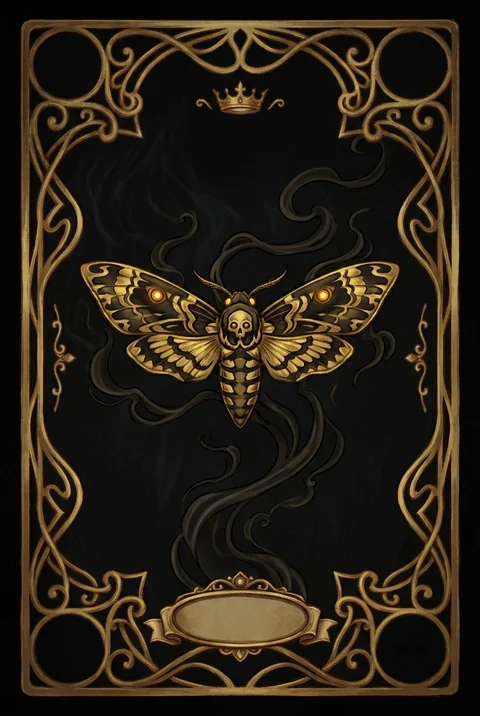
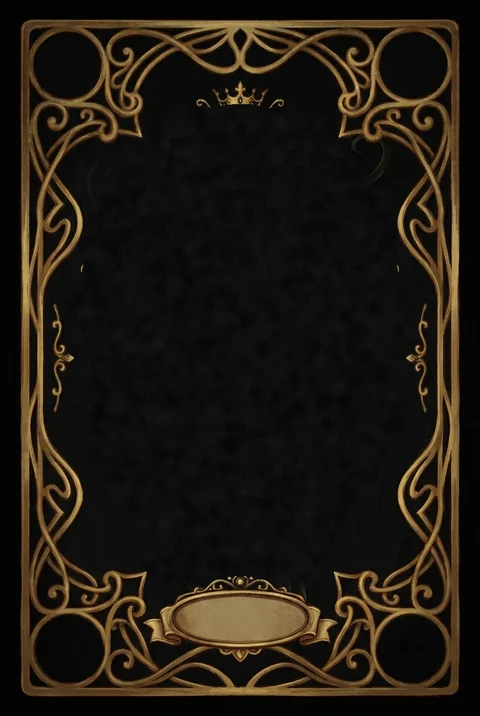
원작 규칙서 대조: 기본판 2인(10장 빼기 · 넘기기 없음 · 5장 패배), 검은 카드는 빈 카드, 벌칙 더미에서 나온 특수 카드도 값을 치른다

diff --git a/game.js b/game.js
@@ -243,7 +243,8 @@ function startGame(room) {
   room.loseAt = R.loseAt(ed, n);
   room.fx = null;
   const order = shuffle(room.players.slice());
-  const { hands, penalty } = R.deal(shuffle(R.makeDeck(ed)), n, ed);
+  const { hands, penalty, removed } = R.deal(shuffle(R.makeDeck(ed)), n, ed);
+  room.removed = removed.length;          // 기본판 2인 — 아무도 모르는 10장
   order.forEach((p, i) => { p.hand = hands[i]; p.row = R.emptyRow(ed); p.crowns = {}; });
   room.penalty = penalty;                 // 맨 끝 장이 펼쳐진 윗장
   // 처음 내미는 사람 — 로얄판은 한 장 더 받은 첫 사람, 기본판은 덜 받은 끝 사람
@@ -267,7 +268,14 @@ function finish(room, loser, why, kind) {
  * 내려놓인 카드는 fx 에 모아 두었다가 화면이 날아가는 모습을 그린다.
  */
 function place(room, p, card, src, fx) {
-  if (R.isSpecial(card)) { p.hand.push(card); fx.push({ k: card.k, src, toHand: true }); return; }   // 벌칙 더미에서 나온 특수 카드는 손으로
+  if (R.isSpecial(card)) {
+    // 벌칙 더미에서 특수 카드가 나왔다 — 원작 규칙서에 따로 없는 경우라, 떠안았을 때와 똑같이 손으로 가져가고 값을 치른다
+    // (그냥 손에 넣으면 벌칙이 오히려 좋은 패가 된다)
+    p.hand.push(card);
+    fx.push({ k: card.k, src, toHand: true });
+    (room.pendingTrib = room.pendingTrib || []).push(card.k);
+    return;
+  }
   p.row[card.k] = (p.row[card.k] || 0) + 1;
   if (card.r) p.crowns[card.k] = (p.crowns[card.k] || 0) + 1;
   fx.push({ k: card.k, r: !!card.r, src });
@@ -279,7 +287,13 @@ function afterPlace(room, p, fx) {
   room.fxSeq = (room.fxSeq || 0) + 1;
   room.fx = { seq: room.fxSeq, who: p.id, cards: fx };
   const over = Object.keys(p.row).find(k => p.row[k] >= room.loseAt);
-  if (over) return finish(room, p, 'four', over);
+  if (over) { room.pendingTrib = []; return finish(room, p, 'four', over); }
+  if (room.pendingTrib && room.pendingTrib.length) {
+    const k = room.pendingTrib.shift();
+    room.tribute = { who: p.id, claim: room.lastClaim, card: k, fromPenalty: true };
+    if (!tributeOptions(room, p).length) return settleTribute(room, p, []);
+    return nudge(room);
+  }
   room.starter = p.id;
   if (!p.hand.length) return finish(room, p, 'empty');
   nudge(room);
@@ -342,6 +356,8 @@ function call(room, p, sayTrue) {
     if (room.phase !== 'playing') return;
     const t = playerOf(room, taker);
     const claim = room.reveal.claim;
+    room.lastClaim = claim;
+    room.pendingTrib = [];
     room.reveal = null;
     if (!t) { nudge(room); return; }
     if (R.isSpecial(card)) {
@@ -531,6 +547,7 @@ function stateFor(room, me) {
     } : null,
     reveal: room.reveal,
     tribute: room.tribute,
+    removed: room.phase === 'lobby' ? R.removedSize(ed, room.players.length) : room.removed || 0,
     penalty: ed === 'royal' && room.phase !== 'lobby' ? { n: room.penalty.length, top: top ? { k: top.k, r: !!top.r } : null } : null,
     fx: room.fx,
     history: room.history,
@@ -840,8 +857,8 @@ function selfCheck() {
     const deck = R.makeDeck(ed);
     if (deck.length !== want[ed]) throw new Error(`${ed} 덱이 ${deck.length}장입니다 (${want[ed]}장이어야 함)`);
     for (let n = MIN_PLAYERS; n <= MAX_PLAYERS; n++) {
-      const { hands, penalty } = R.deal(deck, n, ed);
-      if (hands.reduce((a, h) => a + h.length, 0) + penalty.length !== deck.length) throw new Error(`${ed} ${n}인 나누기가 어긋납니다`);
+      const { hands, penalty, removed } = R.deal(deck, n, ed);
+      if (hands.reduce((a, h) => a + h.length, 0) + penalty.length + removed.length !== deck.length) throw new Error(`${ed} ${n}인 나누기가 어긋납니다`);
     }
   }
   console.log(`  기본판 64장 · 로얄판 65장 · ${MIN_PLAYERS}~${MAX_PLAYERS}인`);

diff --git a/public/index.html b/public/index.html
@@ -251,19 +251,21 @@
           <li><b>같은 생물 4장</b>이 내 앞에 쌓이면 진다. 카드를 내밀 차례인데 <b>손에 카드가 없어도</b> 진다.</li>
           <li>진 사람 한 명을 빼고 모두가 이긴다.</li>
         </ol>
-        <div class="callout"><b>기본판</b> — 바퀴벌레·쥐·노린재·전갈·두꺼비·박쥐·파리·거미, 8종 × 8장 = 64장을 모두 나눠 준다.</div>
+        <div class="callout"><b>기본판</b> — 바퀴벌레·쥐·노린재·전갈·두꺼비·박쥐·파리·거미, 8종 × 8장 = 64장을 모두 나눠 준다.<br>
+        <b>2인</b> — 카드 10장을 아무도 보지 않고 빼 두고 나머지를 나눈다. 넘기기는 없고(받으면 반드시 외친다), 같은 생물 <b>5장</b>이 쌓이면 진다.</div>
       </div>
       <div class="tabpage" data-page="royal">
         <p class="lead"><b>로얄판</b>은 거미가 빠진 7종 × 8장에, 특별한 카드 9장이 더 들어간다. (65장)</p>
         <ul class="cardlist">
           <li><img src="/img/card_k_bat.webp" alt=""><div><b>왕 카드 (7장)</b> 왕관 쓴 생물. 그 생물이라고 해도, <b>“왕”</b>이라고 해도 맞다. 왕 카드를 앞에 펼친 사람은 <b>벌칙 더미</b>의 펼쳐진 윗장도 가져와 앞에 펼친다(또 왕이면 한 장 더). 개수를 셀 때는 그 생물로 센다.</div></li>
           <li><img src="/img/card_subject.webp" alt=""><div><b>신하</b> 아무 생물이라고 해도 맞다. 단, <b>“왕”</b>이라고 하면 틀린다.</div></li>
-          <li><img src="/img/card_black.webp" alt=""><div><b>검은 카드</b> 무엇이라고 해도 <b>틀린다.</b></div></li>
+          <li><img src="/img/card_black.webp" alt=""><div><b>검은 카드</b> 아무것도 그려지지 않은 카드. 무엇이라고 해도 <b>틀린다.</b></div></li>
         </ul>
         <ol class="steps">
           <li>말할 수 있는 것은 생물 7종과 <b>“왕”</b>.</li>
           <li>처음에 <b>벌칙 더미</b> 7장을 엎어 두고 맨 윗장만 펼친다. 나머지를 나눠 주고, 남는 장은 첫 사람이 한 장 더 갖고 나머지는 벌칙 더미로 간다.</li>
           <li><b>특수 카드(신하·검은 카드)를 떠안으면</b> 앞에 두지 않고 손으로 가져간다. 대신 마지막에 들은 말과 맞는 카드 1장을, 그런 카드가 없거나 내기 싫으면 아무 카드 2장을 손에서 앞에 펼친다.</li>
+          <li>왕 카드 때문에 벌칙 더미에서 특수 카드가 나오면 떠안았을 때와 똑같이 한다. (원작 규칙서에 없는 경우라 이렇게 정했다)</li>
           <li><b>2인 로얄</b> — 벌칙 더미 16장, 넘기기 없음, 같은 생물 <b>5장</b>이면 패배.</li>
         </ol>
       </div>

diff --git a/public/app.js b/public/app.js
@@ -663,7 +663,7 @@ function renderAct(mode) {
     body.innerHTML = `<div class="chips">
       <button class="chip ok" data-call="1"><img src="/img/chip_ok.webp" alt=""><span>진짜다</span><small>${isNeg(c.claim) ? `정말 ${NAMES[baseOf(c.claim)]} 아니야` : `${NAMES[c.claim]} 맞아`}</small></button>
       <button class="chip no" data-call="0"><img src="/img/chip_no.webp" alt=""><span>거짓말!</span><small>${isNeg(c.claim) ? `사실 ${NAMES[baseOf(c.claim)]}${josa(NAMES[baseOf(c.claim)], '이야', '야')}` : `${NAMES[c.claim]} 아니야`}</small></button>
-      <button class="chip peek" id="bPeek" ${can ? '' : 'disabled'}><img src="/img/chip_peek.webp" alt=""><span>몰래 보고 넘기기</span><small>${can ? `${c.targets.length}명에게 넘길 수 있음` : S.canPass ? '모두 이미 본 카드' : '2인 로얄은 넘기기 없음'}</small></button>
+      <button class="chip peek" id="bPeek" ${can ? '' : 'disabled'}><img src="/img/chip_peek.webp" alt=""><span>몰래 보고 넘기기</span><small>${can ? `${c.targets.length}명에게 넘길 수 있음` : S.canPass ? '모두 이미 본 카드' : '2인은 넘기기 없음'}</small></button>
     </div>`;
   } else if (mode === 'pass') {
     const c = S.chain;
@@ -676,7 +676,7 @@ function renderAct(mode) {
   } else if (mode === 'tribute') {
     const tr = S.tribute;
     const cn = tr.card === 'black' ? '검은 카드' : '신하 카드';
-    t.innerHTML = `${cn}${josa(cn, '을', '를')} 떠안았어요! 손으로 가져가는 대신…`;
+    t.innerHTML = tr.fromPenalty ? `벌칙 더미에서 ${cn}${josa(cn, '이', '가')} 나왔어요! 손으로 가져가는 대신…` : `${cn}${josa(cn, '을', '를')} 떠안았어요! 손으로 가져가는 대신…`;
     body.innerHTML = `<p class="hint-line"><b style="color:var(--ink)">“${claimSay(tr.claim)}”에 맞는 카드 1장</b>, 또는 <b style="color:var(--ink)">아무 카드 2장</b>을 손패에서 눌러 앞에 내려놓으세요 · ${sel.ids.length}장 고름</p>
       <div class="act-row"><button class="btn gold" id="bTrib" ${tributeValid() ? '' : 'disabled'}>내려놓기</button></div>`;
   }
@@ -786,7 +786,7 @@ function renderGame(prev) {
 
   const ed = S.cfg.edition;
   const edp = $('#gEd'); edp.textContent = ed === 'royal' ? '👑 로얄판' : '기본판'; edp.className = 'pill ed ' + ed;
-  $('#gLose').textContent = `같은 생물 ${S.loseAt}장이면 패배`;
+  $('#gLose').textContent = `같은 생물 ${S.loseAt}장이면 패배` + (S.removed ? ` · ${S.removed}장은 빼 두고 시작` : '') + (S.canPass ? '' : ' · 넘기기 없음');
   const sn = $('#gSpecN');
   sn.hidden = !(S.specs && S.specs.length);
   sn.textContent = isSpec() ? '관전 중' : `관전 ${S.specs ? S.specs.length : 0}명`;

diff --git a/rules.js b/rules.js
@@ -11,7 +11,9 @@
  *  k  생물(roach …) 또는 특수 카드('subject' 신하 · 'black' 검은 카드)
  *  r  왕 카드면 true — 그 생물로도, "왕" 으로도 맞다
  *
- * 앞에 같은 생물이 4장(로얄 2인은 5장) 쌓이거나, 내밀 차례인데 손에 카드가 없으면 진다. 왕 카드도 그 생물로 센다.
+ * 2인은 두 판 모두 넘기기가 없고 같은 생물 5장이면 진다. 기본판 2인은 카드 10장을 보지 않고 빼고 나눈다.
+ *
+ * 앞에 같은 생물이 4장(2인은 5장) 쌓이거나, 내밀 차례인데 손에 카드가 없으면 진다. 왕 카드도 그 생물로 센다.
  */
 
 const KINDS = ['roach', 'rat', 'stink', 'scorp', 'toad', 'bat', 'fly', 'spider'];
@@ -28,10 +30,12 @@ const kindsOf = ed => (ed === 'royal' ? ROYAL_KINDS : KINDS);
 /** 말할 수 있는 것 — 로얄판에는 "왕" 이 하나 더 있다 */
 const claimsOf = ed => (ed === 'royal' ? ROYAL_KINDS.concat('royal') : KINDS.slice());
 const isSpecial = c => c.k === 'subject' || c.k === 'black';
-const loseAt = (ed, n) => (ed === 'royal' && n === 2 ? 5 : 4);
+const loseAt = (ed, n) => (n === 2 ? 5 : 4);
 const penaltySize = (ed, n) => (ed === 'royal' ? (n === 2 ? 16 : 7) : 0);
-/** 넘기기 — 로얄 2인은 금지(기본판 2인은 넘길 사람이 없어서 저절로 안 된다) */
-const canPass = (ed, n) => !(ed === 'royal' && n === 2);
+/** 기본판 2인 — 나누기 전에 아무도 보지 않고 빼 두는 장 수 */
+const removedSize = (ed, n) => (ed === 'base' && n === 2 ? 10 : 0);
+/** 넘기기 — 2인은 두 판 모두 금지 (원작 규칙서의 2인 규칙) */
+const canPass = (ed, n) => n > 2;
 
 function makeDeck(ed) {
   const deck = [];
@@ -51,6 +55,7 @@ function makeDeck(ed) {
  */
 function deal(deck, n, ed) {
   const d = deck.slice();
+  const removed = d.splice(0, removedSize(ed, n));   // 기본판 2인 — 상자에 도로 넣는다
   const penalty = d.splice(0, penaltySize(ed, n));
   const base = Math.floor(d.length / n);
   let extra = d.length - base * n;
@@ -62,7 +67,7 @@ function deal(deck, n, ed) {
     hands.push(d.splice(0, take));
   }
   penalty.push(...d);                 // 로얄판에서 남은 장
-  return { hands, penalty };
+  return { hands, penalty, removed };
 }
 
 /**
@@ -104,6 +109,6 @@ const lostByRow = (row, at) => Object.values(row).some(v => v >= at);
 
 module.exports = {
   KINDS, ROYAL_KINDS, NAMES, PER_KIND, EDITIONS,
-  kindsOf, claimsOf, isSpecial, NOT, isNeg, baseOf, isClaim, loseAt, penaltySize, canPass,
+  kindsOf, claimsOf, isSpecial, NOT, isNeg, baseOf, isClaim, loseAt, penaltySize, removedSize, canPass,
   makeDeck, deal, truthOf, judge, tributeMatch, emptyRow, lostByRow,
 };

diff --git a/test/sim.js b/test/sim.js
@@ -28,6 +28,7 @@ function checkState(s, room) {
   for (const p of room.players) n += p.hand.length + Object.values(p.row).reduce((a, b) => a + b, 0);
   n += room.chain ? 1 : 0;
   n += room.penalty ? room.penalty.length : 0;
+  n += room.removed || 0;
   if (room.reveal) n += 1;
   assert.strictEqual(n, total, `카드가 ${n}장 (${total}장이어야 함) phase=${room.phase}`);
   for (const p of room.players) for (const k of Object.keys(p.row)) assert.ok(p.row[k] <= R.PER_KIND + 1);

diff --git a/tools/build_assets.py b/tools/build_assets.py
@@ -36,7 +36,8 @@ for n in names:
 # 로얄판 — 왕 카드 7장(화려한 틀, 위 왕관 아래로 생물), 신하(크림 틀), 검은 카드, 로얄 뒷면
 rframe = Image.open('raw/rframe.png').convert('RGBA').resize((CW, CH), Image.LANCZOS)
 save(Image.open('raw/rback.png').convert('RGB').resize((CW, CH), Image.LANCZOS), 'rback')
-save(Image.open('raw/black.png').convert('RGB').resize((CW, CH), Image.LANCZOS), 'card_black')
+# 검은 카드는 원작처럼 가운데가 비어 있다 — black.png 의 나방 무늬를 걷어 낸 black_blank.png
+save(Image.open('raw/black_blank.png').convert('RGB').resize((CW, CH), Image.LANCZOS), 'card_black')
 for n in names[:7] + ['subject']:
     c = Image.open(f'{OUT}/k_{n}.png').convert('RGBA')
     c = c.crop(c.getbbox())

diff --git a/docs/OVERNIGHT.md b/docs/OVERNIGHT.md
@@ -1,0 +1,28 @@
+# 밤샘 작업 계획 · 기록 (2026-10-22 밤 → 10-23 아침 8시 보고)
+
+사용자 지시: 오류 없이, 규칙이 원작과 맞고, 게임이 합리적일 것. 원작에 있는데 여기 없는 것은 안 된다.
+아침에 사용자가 직접 플레이한다 → **07:30 이후에는 배포하지 않는다**(배포하면 진행 중인 판이 끊긴다).
+
+## 계획 (우선순위 순)
+
+1. **원작 규칙 대조** — 기본판·로얄판 공식 규칙서(Drei Magier, 영어·독일어)를 찾아 한 줄씩 대조
+   - 나누기, 첫 사람, 내밀기·넘기기, 마지막 사람, 패배 조건, 다음 차례
+   - 로얄: 왕 카드와 벌칙 더미, 특수 카드 두 장의 정확한 이름·효과·떠안았을 때, 벌칙 더미에서 나온 특수 카드, 2인 규칙, 기타 변형
+   - 차이가 나면 고치고 규칙 화면·README도 같이 고친다
+2. **엣지 케이스 테스트(test/rules.js 새로)** — 끊김·나가기·방장 이탈, 오가는 중 연결 끊김, 값 치르기 때 손패 부족, 벌칙 더미 바닥, 벌칙 더미의 특수 카드, 손이 빈 채 카드 받기, 2인 로얄
+3. **대량 시뮬레이션** — 판 수천 번: 끝나지 않는 판 없음, 카드 수 보존, 정보 누출 없음, 판 길이 통계
+4. **봇 점검** — 봇이 모르는 정보를 쓰지 않는지, 너무 바보 같거나 너무 세지 않은지(무작위 대비 승률)
+5. **화면 점검** — 두 판 × 2·4·6인 × 데스크톱·모바일, 모든 단계(내밀기·받기·넘기기·값 치르기·판정·결과), 긴 이름, 새로고침 재접속, 관전, 채팅, 강퇴, 얼굴 바꾸기, 한 판 더
+6. **배포본 확인** — 배포 후 스모크, 봇끼리 판 끝까지
+7. **08:00 보고**
+
+## 기록
+
+(작업하면서 아래에 시간 순으로 적는다)
+
+### 22:30 — 1. 원작 규칙 대조 (rulespal 기본판·로얄판 규칙서, 로얄 영문 규칙서, 위키백과, 상품 구성표)
+- 로얄판: 구성(생물 56 + 왕 7 + 신하 「Untertanen」 + 검은 카드 「Schwarz」), 벌칙 더미 7장(2인 16장)·윗장 공개, 남는 장은 첫 사람 +1 나머지 벌칙 더미,
+  “왕” 이라는 말, 왕을 펼치면 벌칙 더미 윗장(또 왕이면 반복)·새 윗장 공개, 손에서 값으로 낸 왕도 벌칙, 특수 카드 떠안으면 손으로 + 맞는 1장/아무 2장, 4장(2인 5장)·빈손 패배 → **모두 맞음**
+- **고침: 기본판 2인** — 원작은 10장을 보지 않고 빼고 나누고, 넘기기 없이, 같은 생물 **5장**이면 패배. 4장이던 것을 5장으로, 10장 빼기 추가, 화면 위 알림줄에 표시
+- **고침: 검은 카드 그림** — 원작은 “아무것도 그려지지 않은 카드”. 나방 무늬를 걷어 빈 카드로
+- **정함: 벌칙 더미에서 특수 카드가 나온 경우**(원작에 없음) — 그냥 손에 넣으면 벌칙이 이득이 되므로 떠안았을 때와 똑같이 값을 치른다. 규칙 화면에 “원작에 없는 경우라 이렇게 정했다” 고 적음

diff --git a/README.md b/README.md
@@ -32,6 +32,7 @@
    - **몰래 보고 넘기기** — 혼자 보고, 아직 이 카드를 안 본 사람에게 다시 내민다(말은 바꿔도 된다). 모두 본 카드면 마지막 사람은 반드시 외친다.
 3. 카드를 앞에 펼친 사람이 다음 카드를 내민다.
 4. **같은 생물 4장**이 앞에 쌓이거나, 내밀 차례인데 **손이 비면** 진다. 나머지는 모두 이긴다.
+5. **2인**: 카드 10장을 아무도 보지 않고 빼 두고 나눈다. 넘기기 없음, 같은 생물 **5장**이면 패배.
 
 ### 로얄판 — 생물 7종 × 8장 + 왕 7장 + 특수 2장 = 65장
 
